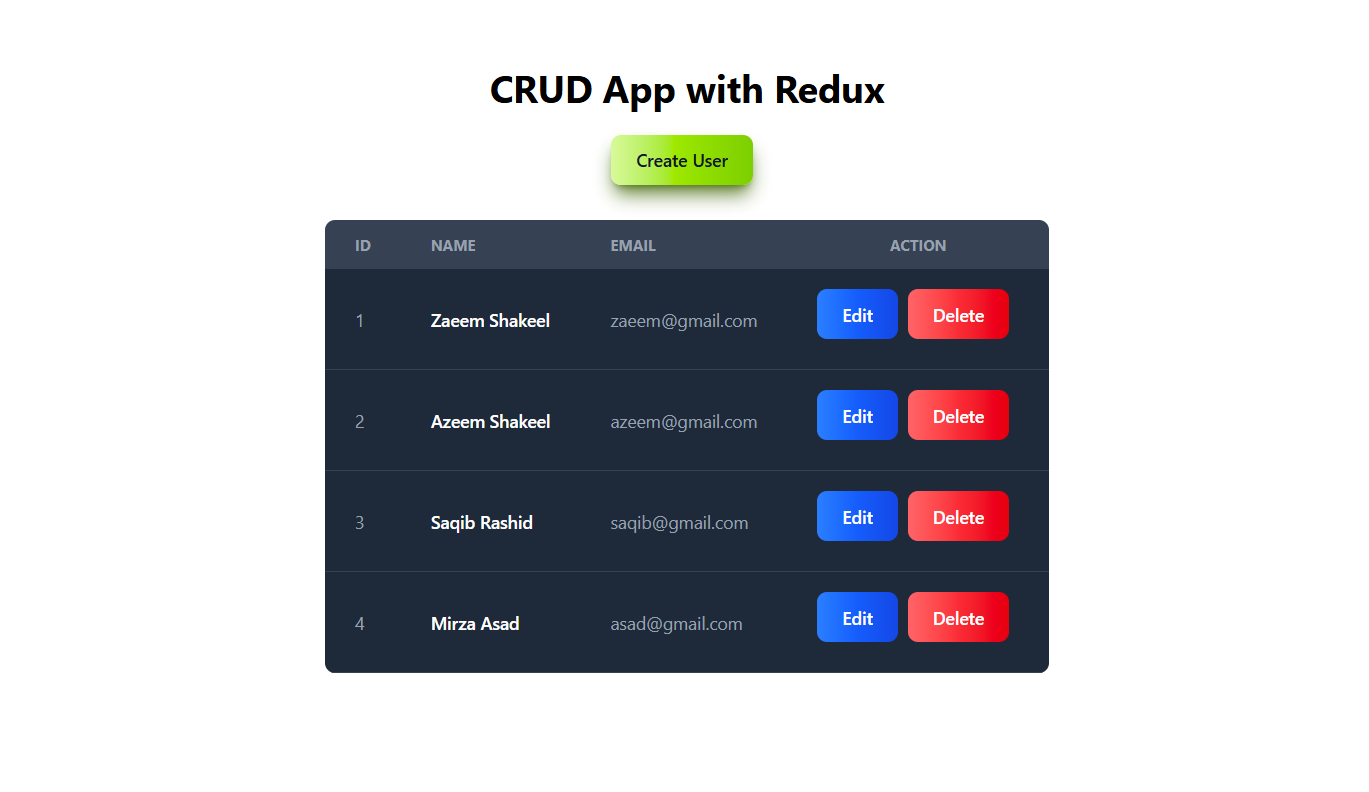
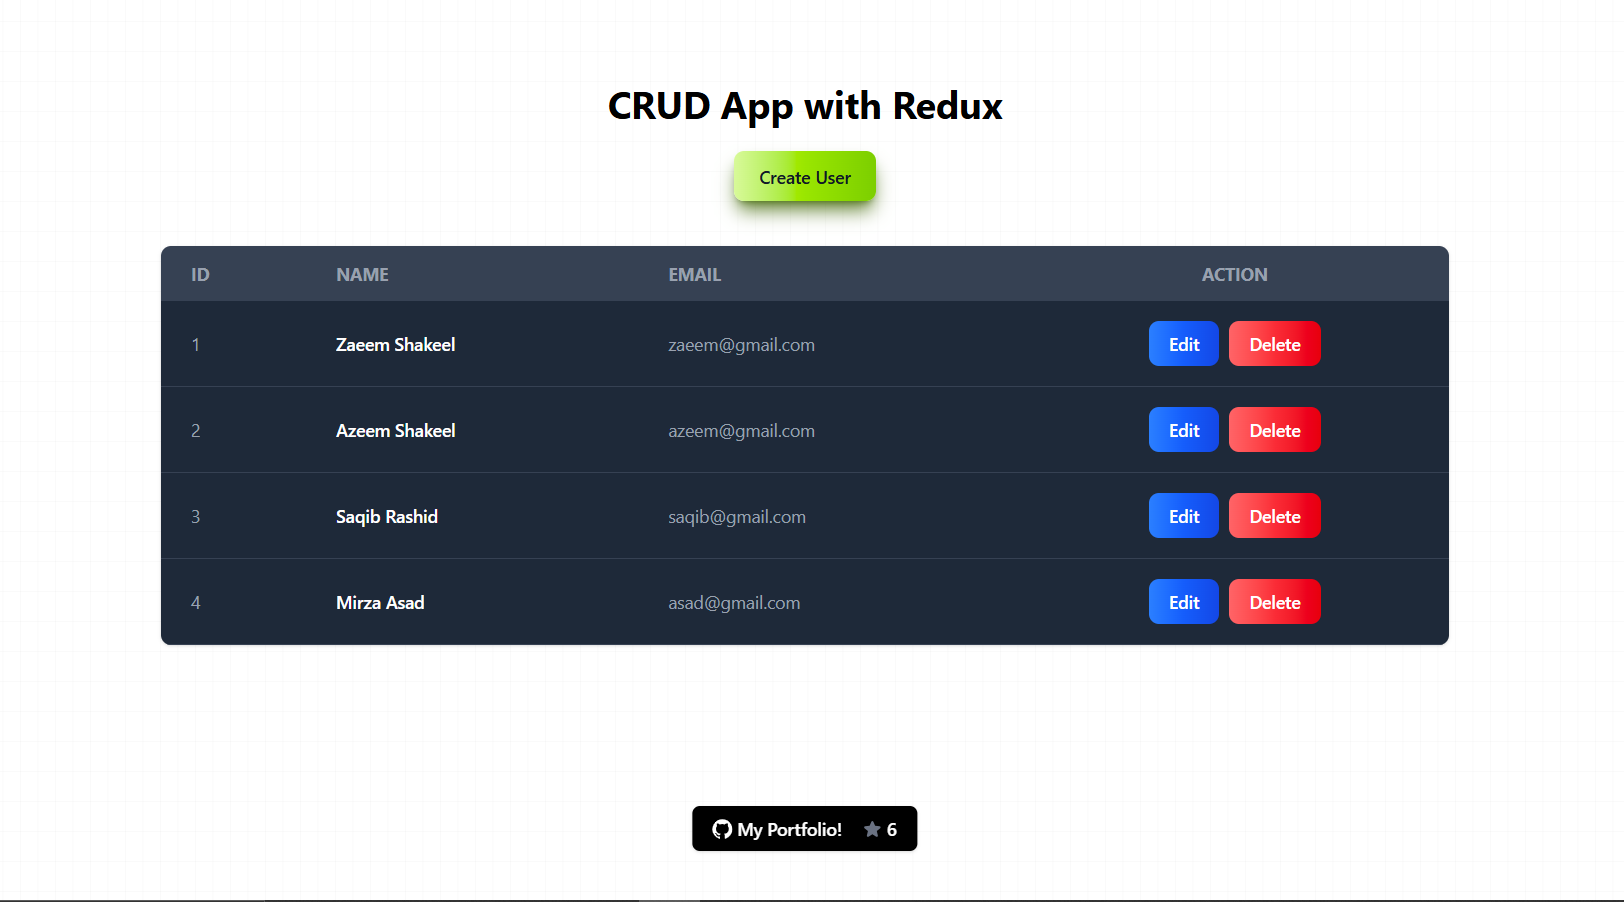
read me updated

diff --git a/src/components/Home.jsx b/src/components/Home.jsx
@@ -12,7 +12,7 @@ function Home() {
   };
 
   return (
-    <div className="flex flex-col items-center justify-center gap-5 min-h-screen px-4 sm:px-8">
+    <div className="flex flex-col items-center justify-center gap-5 mt-30 px-4 sm:px-8">
       <h2 className="font-bold text-2xl sm:text-3xl text-center">
         CRUD App with Redux
       </h2>

diff --git a/index.html b/index.html
@@ -2,7 +2,7 @@
 <html lang="en">
   <head>
     <meta charset="UTF-8" />
-    <link rel="icon" type="image/svg+xml" href="/vite.svg" />
+    <link rel="shortcut icon" href="./src/assets/search.png" type="image/png" />
     <meta name="viewport" content="width=device-width, initial-scale=1.0" />
     <title>CRUD App</title>
   </head>

diff --git a/src/utils/Data.jsx b/src/utils/Data.jsx
@@ -14,4 +14,9 @@ export const userList = [
     email: "saqib@gmail.com",
     id: 3,
   },
+  {
+    name: "Mirza Asad",
+    email: "asad@gmail.com",
+    id: 4,
+  },
 ];
